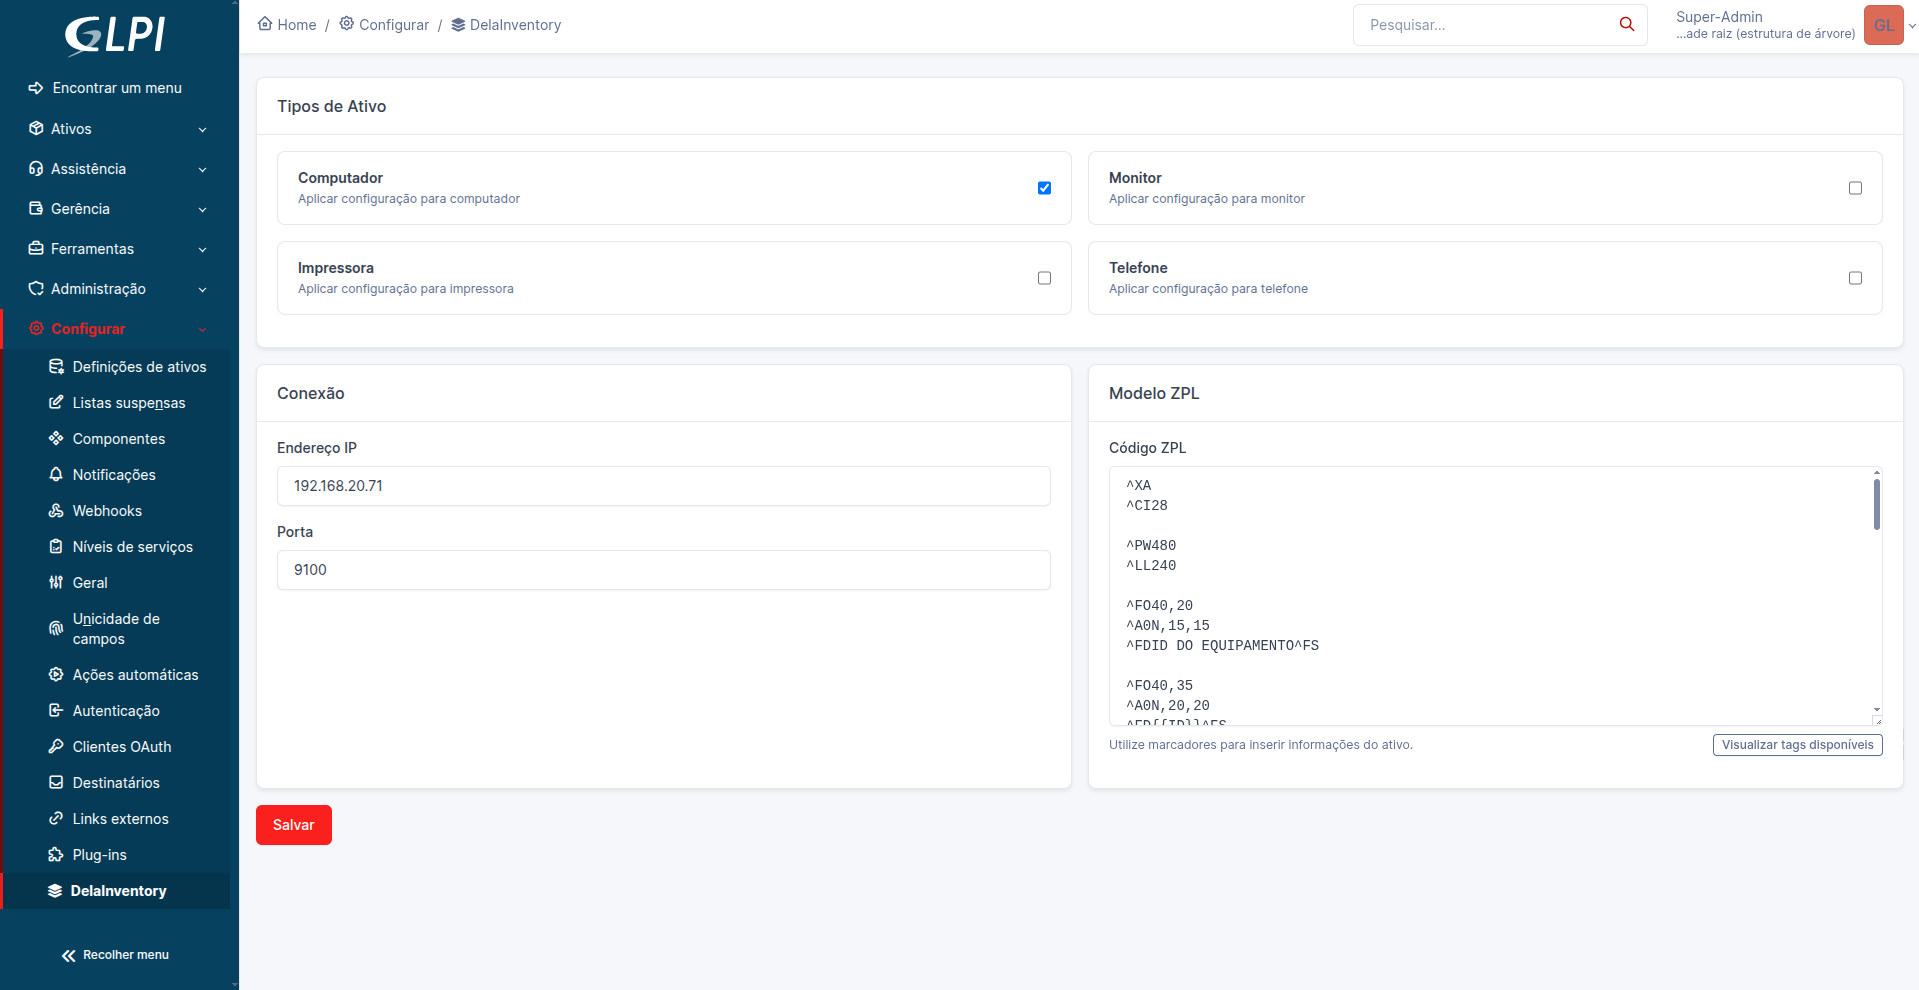
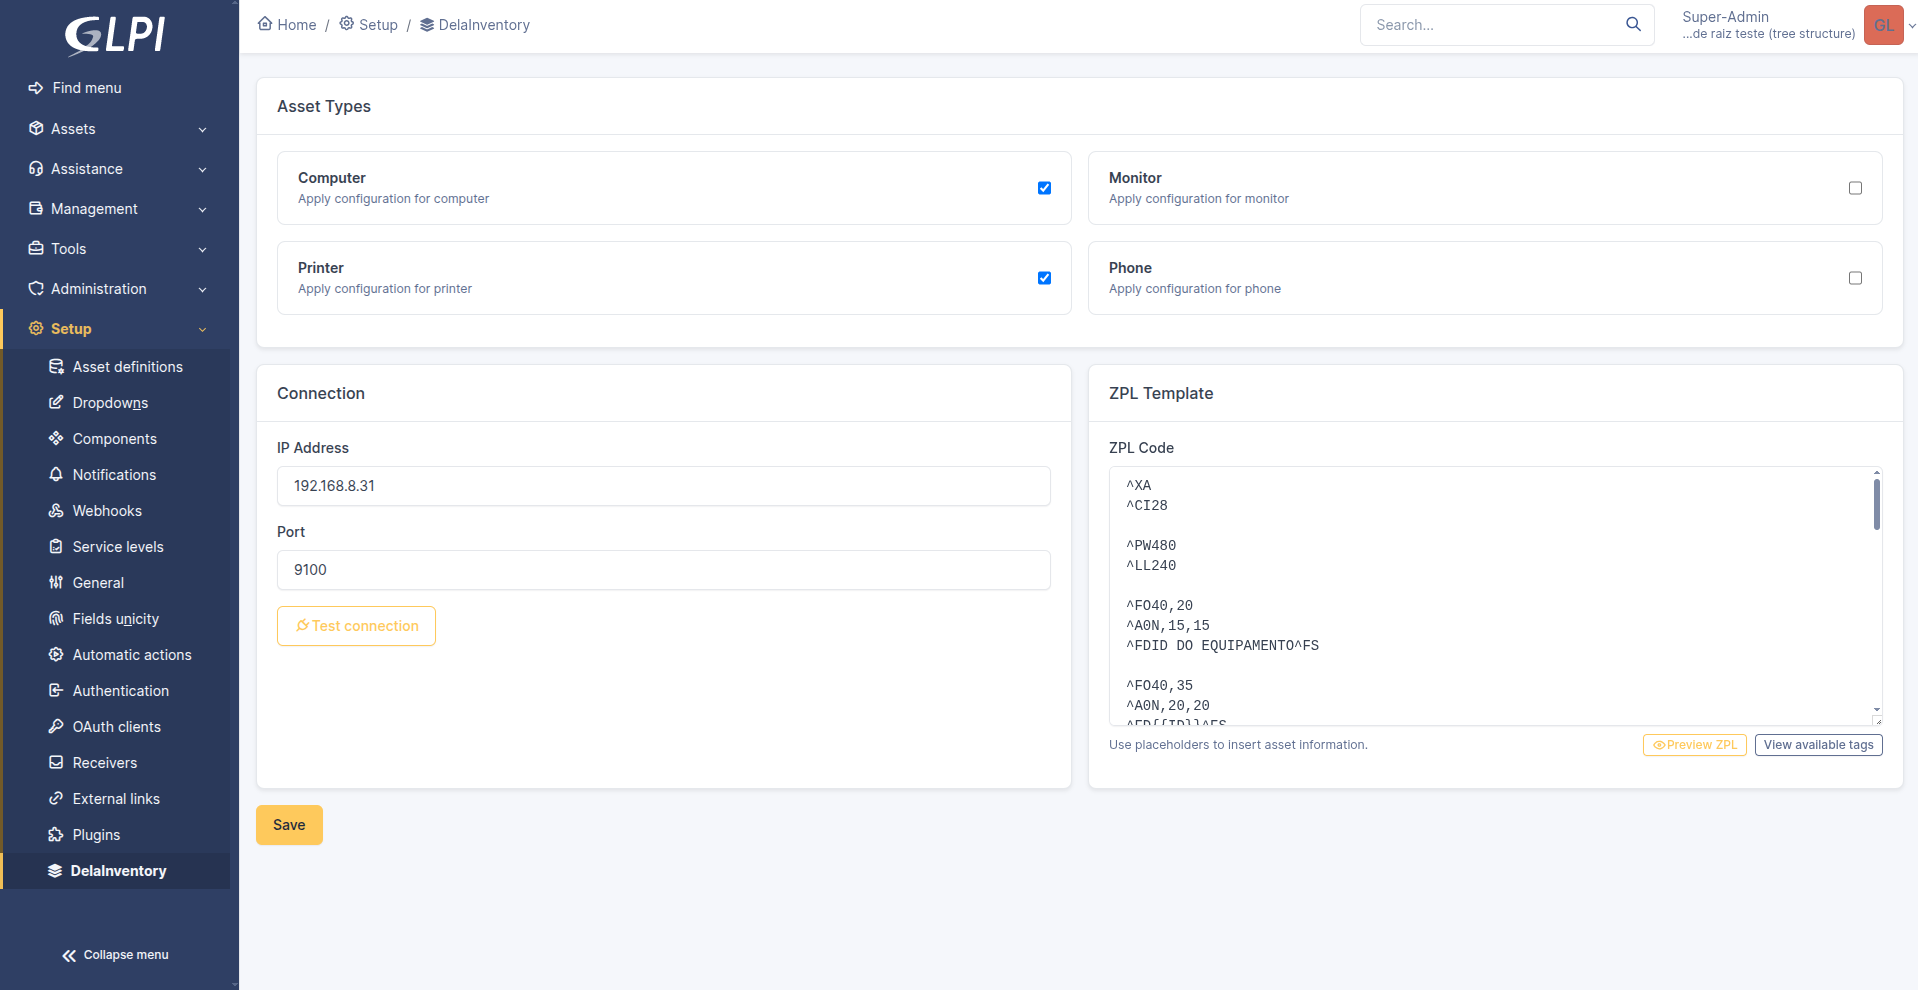
Release v0.3.0

diff --git a/front/print.php b/front/print.php
@@ -20,14 +20,14 @@ $allowed = [
 
 if (!in_array($itemtype, $allowed, true)) {
     http_response_code(400);
-    die('Tipo inválido');
+    die(__('Invalid type', 'delainventory'));
 }
 
 $item = new $itemtype();
 
 if (!$item->getFromDB($input_id)) {
     http_response_code(404);
-    die('Equipamento não encontrado');
+    die(__('Asset not found', 'delainventory'));
 }
 
 $formPages = [
@@ -49,12 +49,12 @@ $zpl_template = $printer['zpl'] ?? '';
 
 if (empty($ip) || empty($port)) {
     http_response_code(500);
-    die('IP ou porta da impressora não configurados.');
+    die(__('Printer IP address or port not configured.', 'delainventory'));
 }
 
 if (empty($zpl_template)) {
     http_response_code(500);
-    die('Modelo ZPL não configurado.');
+    die(__('ZPL model not configured.', 'delainventory'));
 }
 
 $vars = ZplVars::resolve(
@@ -72,7 +72,7 @@ $socket = fsockopen($ip, $port, $errno, $errstr, 5);
 
 if (!$socket) {
     http_response_code(500);
-    die("Erro ao conectar na impressora: {$errstr} ({$errno})");
+    die(sprintf(__('Could not connect to printer %s:%s. %s (%s)', 'delainventory'), $ip, $port, $errstr, $errno));
 }
 
 stream_set_timeout($socket, 5);
@@ -80,4 +80,4 @@ stream_set_timeout($socket, 5);
 fwrite($socket, $zpl);
 fclose($socket);
 
-echo "Etiqueta enviada para impressão";
+echo __('Label sent to print.', 'delainventory');

diff --git a/front/log.php b/front/log.php
@@ -69,7 +69,7 @@ $logs = Log::getLogs($itemtype, $item_id);
 
 <script>
     function registrarInventario() {
-        const comment = prompt(__('Enter the message', 'delainventory'));
+        const comment = prompt('<?= htmlspecialchars(__('Enter the message', 'delainventory'), ENT_QUOTES, 'UTF-8') ?>');
 
         if (comment === null) return;
 
@@ -81,7 +81,7 @@ $logs = Log::getLogs($itemtype, $item_id);
         fetch('/plugins/delainventory/front/print.php?itemtype=' + encodeURIComponent(itemtype) + '&id=' + id)
         .then(response => response.text())
         .then(msg => alert(msg)).catch(err => {
-            alert(__('Printing error', 'delainventory'));
+            alert('<?= htmlspecialchars(__('Printing error', 'delainventory'), ENT_QUOTES, 'UTF-8') ?>');
             console.error(err);
         });
     }

diff --git a/front/action.php b/front/action.php
@@ -15,6 +15,6 @@ $item_id  = (int) $_POST['item_id'];
 $comment  = trim($_POST['comment'] ?? '');
 
 Log::addNewLog($itemtype, $item_id, $comment);
-Session::addMessageAfterRedirect("Log adicionado com sucesso!", true, INFO);
+Session::addMessageAfterRedirect(__('Log added successfully!', 'delainventory'), true, INFO);
 
 Html::redirect($_SERVER['HTTP_REFERER'] ?? '');

diff --git a/setup.php b/setup.php
@@ -1,6 +1,6 @@
 <?php
 
-define('PLUGIN_DELAINVENTORY_VERSION', '0.2.0');
+define('PLUGIN_DELAINVENTORY_VERSION', '0.3.0');
 define('PLUGIN_DELAINVENTORY_MIN_GLPI_VERSION', '11.0.0');
 define('PLUGIN_DELAINVENTORY_MAX_GLPI_VERSION', '11.99.99');
 

diff --git a/README.md b/README.md
@@ -47,38 +47,6 @@ The label can include:
 
 ![Tags View](docs/screenshots/preview2.png)
 
-## 📂 Project Structure
-
-```text
-delainventory/
-├── docs/
-│
-├── front/
-│   ├── action.php
-│   ├── config.php
-│   ├── log.php
-│   └── print.php
-│
-├── src/
-│   ├── Config.php
-│   ├── Log.php
-│   ├── Printer.php
-│   └── ZplVars.php
-│
-├── templates/
-│   └── config.html.twig
-│
-├── tests/
-├── tools/
-├── vendor/
-│
-├── hook.php
-├── setup.php
-└── plugin.xml
-```
-
-The plugin follows the official GLPI plugin architecture, using modern PHP practices with Composer autoloading, Twig templates, and separated source classes for configuration and inventory logs.
-
 ## ⚙ How It Works
 
 ### Inventory Registration
@@ -100,7 +68,7 @@ The plugin follows the official GLPI plugin architecture, using modern PHP pract
 
 ## 🔧 Requirements
 
-- GLPI
+- GLPI 11
 - PHP 8+
 - MySQL or MariaDB
 - Zebra printer compatible with ZPL
@@ -139,19 +107,28 @@ Setup → Plugins → DelaInventory → Install → Enable
 
 ## 📈 Roadmap
 
-Future improvements being evaluated:
-
-- Printer connection validation button
-- Label preview before printing
-
-- Multiple ZPL template management
-  - Store multiple label templates.
-  - Define a default template.
-  - Assign different templates according to GLPI entities or organizational needs.
+Upcoming improvements planned for future releases:
 
 - Reports and dashboards
-- Additional GLPI asset types support
-- Performance and security improvements
+  - Provide inventory and printing statistics.
+  - Add visual dashboards for monitoring and analysis.
+
+- Configuration access control
+  - Add a dedicated permissions page.
+  - Restrict access to plugin configuration to authorized users.
+  - Prevent regular users from accessing administrative configuration screens.
+
+- Additional translations
+  - Expand internationalization support.
+  - French (`fr_FR`) planned as the next supported language.
+
+- Additional GLPI asset types
+  - Expand the range of GLPI asset types supported by the plugin.
+
+- Security and performance improvements
+  - Strengthen plugin security.
+  - Improve performance and resource usage.
+  - Continue reviewing and improving the plugin architecture.
 
 ## 👨💻 Author
 

diff --git a/CHANGELOG.md b/CHANGELOG.md
@@ -7,6 +7,16 @@ and this project adheres to [Semantic Versioning](https://semver.org/spec/v2.0.0
 
 ## [Unreleased]
 
+## [0.3.0] - 2026-31-06
+
+### Added
+
+- Printer connection test through the plugin configuration interface, allowing users to verify connectivity to the configured Zebra printer.
+- ZPL label preview through Labelary, providing a quick way to preview the generated label before printing.
+- Internationalization (i18n) structure using `.po` and `.mo` translation files.
+- Added Portuguese translations for Brazil (`pt_BR`) and Portugal (`pt_PT`).
+- Added English translations for the United States (`en_US`) and United Kingdom (`en_GB`).
+
 ## [0.2.0] - 2026-08-06
 
 ### Added
